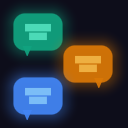
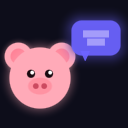
feat: 익스텐션 아이콘을 귀여운 돼지 채팅 디자인으로 변경
- 돼지 얼굴(귀, 눈, 주둥이, 콧구멍) + 말풍선 구성
- 128px: 돼지 얼굴 + 보라색 말풍선
- 48px: 소형 돼지 + 말풍선
- 16px: 돼지 얼굴만 (단순화)

diff --git a/generate-icons.js b/generate-icons.js
@@ -220,29 +220,80 @@ function drawChatBubble(pxBuf, W, H, { cx, cy, bw, bh, r, tailSide, color, glowP
   drawBubbleLines(pxBuf, W, cx, cy, bw, bh, color);
 }
 
-// ───── Icon designs by size ──────────────────────────────────────────────────
+// ───── Pig character ──────────────────────────────────────────────────────────
 
-const COLORS = {
-  gpt:    '#10a37f',
-  gemini: '#4285f4',
-  claude: '#d97706',
-};
+const PIG_PINK      = '#ffaab8';
+const PIG_INNER_EAR = '#ff7a90';
+const PIG_SNOUT     = '#ff8fa0';
+const PIG_NOSTRIL   = '#cc4a60';
+const PIG_EYE       = '#1a0a10';
+const PIG_SHINE     = '#ffffff';
+const BUBBLE_COLOR  = '#6c63ff';
+
+// SDF: axis-aligned ellipse (approximate, good enough for AA rendering)
+function sdEllipse(px, py, cx, cy, rx, ry) {
+  const dx = (px - cx) / rx;
+  const dy = (py - cy) / ry;
+  return (Math.hypot(dx, dy) - 1.0) * Math.min(rx, ry);
+}
+
+function drawPigFace(buf, W, H, cx, cy, r) {
+  const earOffX = r * 0.72;
+  const earOffY = r * 0.72;
+  const earCy   = cy - earOffY;
+  const earR    = r * 0.44;
+  const innerR  = earR * 0.55;
+
+  // Ears — drawn first so head overlaps base
+  for (const ecx of [cx - earOffX, cx + earOffX]) {
+    drawGlow(buf, W, H, (px, py) => sdCircle(px, py, ecx, earCy, earR), PIG_PINK, earR * 0.5, 0.28);
+    drawShape(buf, W, H, (px, py) => sdCircle(px, py, ecx, earCy, earR), PIG_PINK);
+    drawShape(buf, W, H, (px, py) => sdCircle(px, py, ecx, earCy, innerR), PIG_INNER_EAR, 0.85);
+  }
+
+  // Head
+  drawGlow(buf, W, H, (px, py) => sdCircle(px, py, cx, cy, r), PIG_PINK, r * 0.4, 0.32);
+  drawShape(buf, W, H, (px, py) => sdCircle(px, py, cx, cy, r), PIG_PINK);
+
+  // Eyes (skip if too small)
+  if (r >= 6) {
+    const eyeY = cy - r * 0.14;
+    const eyeR = Math.max(1.0, r * 0.115);
+    const eyeX = r * 0.30;
+    for (const ex of [cx - eyeX, cx + eyeX]) {
+      drawShape(buf, W, H, (px, py) => sdCircle(px, py, ex, eyeY, eyeR), PIG_EYE);
+      if (r >= 12) {
+        // Shine dot
+        drawShape(buf, W, H, (px, py) =>
+          sdCircle(px, py, ex + eyeR * 0.35, eyeY - eyeR * 0.35, eyeR * 0.38), PIG_SHINE);
+      }
+    }
+  }
+
+  // Snout (ellipse)
+  const snoutCy = cy + r * 0.27;
+  const snoutRx = r * 0.37;
+  const snoutRy = r * 0.26;
+  drawShape(buf, W, H, (px, py) => sdEllipse(px, py, cx, snoutCy, snoutRx, snoutRy), PIG_SNOUT, 0.9);
+
+  // Nostrils
+  if (r >= 10) {
+    const nR = Math.max(0.8, r * 0.075);
+    const nX = r * 0.14;
+    for (const nx of [cx - nX, cx + nX]) {
+      drawShape(buf, W, H, (px, py) => sdCircle(px, py, nx, snoutCy, nR), PIG_NOSTRIL);
+    }
+  }
+}
+
+// ───── Icon designs by size ──────────────────────────────────────────────────
 
 function generateIcon16() {
   const W = 16, H = 16;
   const px = createCanvas(W, H);
 
-  // Three colored dots with glows
-  const dots = [
-    { cx: 3.5,  cy: 8, r: 2.6, color: COLORS.gpt    },
-    { cx: 8.5,  cy: 8, r: 2.6, color: COLORS.gemini  },
-    { cx: 13.5, cy: 8, r: 2.6, color: COLORS.claude  },
-  ];
-
-  for (const { cx, cy, r, color } of dots) {
-    drawGlow(px, W, H, (x, y) => sdCircle(x, y, cx, cy, r), color, 4, 0.4);
-    drawShape(px, W, H, (x, y) => sdCircle(x, y, cx, cy, r), color, 0.95);
-  }
+  // Pig face only — centered
+  drawPigFace(px, W, H, 8, 9.5, 6.2);
 
   return makePNG(W, H, px);
 }
@@ -251,16 +302,14 @@ function generateIcon48() {
   const W = 48, H = 48;
   const px = createCanvas(W, H);
 
-  const bw = 18, bh = 15, r = 4, glowPx = 8;
+  // Pig face (left side)
+  drawPigFace(px, W, H, 16, 30, 12);
 
-  // Staggered vertical chat layout
-  const bubbles = [
-    { cx: 15, cy: 12.5, bw, bh, r, tailSide: 'left',  color: COLORS.gpt,    glowPx },
-    { cx: 29, cy: 25,   bw, bh, r, tailSide: 'right', color: COLORS.claude,  glowPx },
-    { cx: 15, cy: 37.5, bw, bh, r, tailSide: 'left',  color: COLORS.gemini,  glowPx },
-  ];
-
-  for (const b of bubbles) drawChatBubble(px, W, H, b);
+  // Chat bubble (upper right, speech from pig)
+  drawChatBubble(px, W, H, {
+    cx: 36, cy: 14, bw: 20, bh: 14,
+    r: 4, tailSide: 'left', color: BUBBLE_COLOR, glowPx: 7,
+  });
 
   return makePNG(W, H, px);
 }
@@ -269,15 +318,14 @@ function generateIcon128() {
   const W = 128, H = 128;
   const px = createCanvas(W, H);
 
-  const bw = 48, bh = 36, r = 11, glowPx = 18;
+  // Pig face (left-center)
+  drawPigFace(px, W, H, 40, 78, 30);
 
-  const bubbles = [
-    { cx: 38,  cy: 32,  bw, bh, r, tailSide: 'left',  color: COLORS.gpt,    glowPx },
-    { cx: 88,  cy: 64,  bw, bh, r, tailSide: 'right', color: COLORS.claude,  glowPx },
-    { cx: 38,  cy: 96,  bw, bh, r, tailSide: 'left',  color: COLORS.gemini,  glowPx },
-  ];
-
-  for (const b of bubbles) drawChatBubble(px, W, H, b);
+  // Chat bubble (upper right, speech from pig)
+  drawChatBubble(px, W, H, {
+    cx: 96, cy: 38, bw: 48, bh: 34,
+    r: 10, tailSide: 'left', color: BUBBLE_COLOR, glowPx: 16,
+  });
 
   return makePNG(W, H, px);
 }
